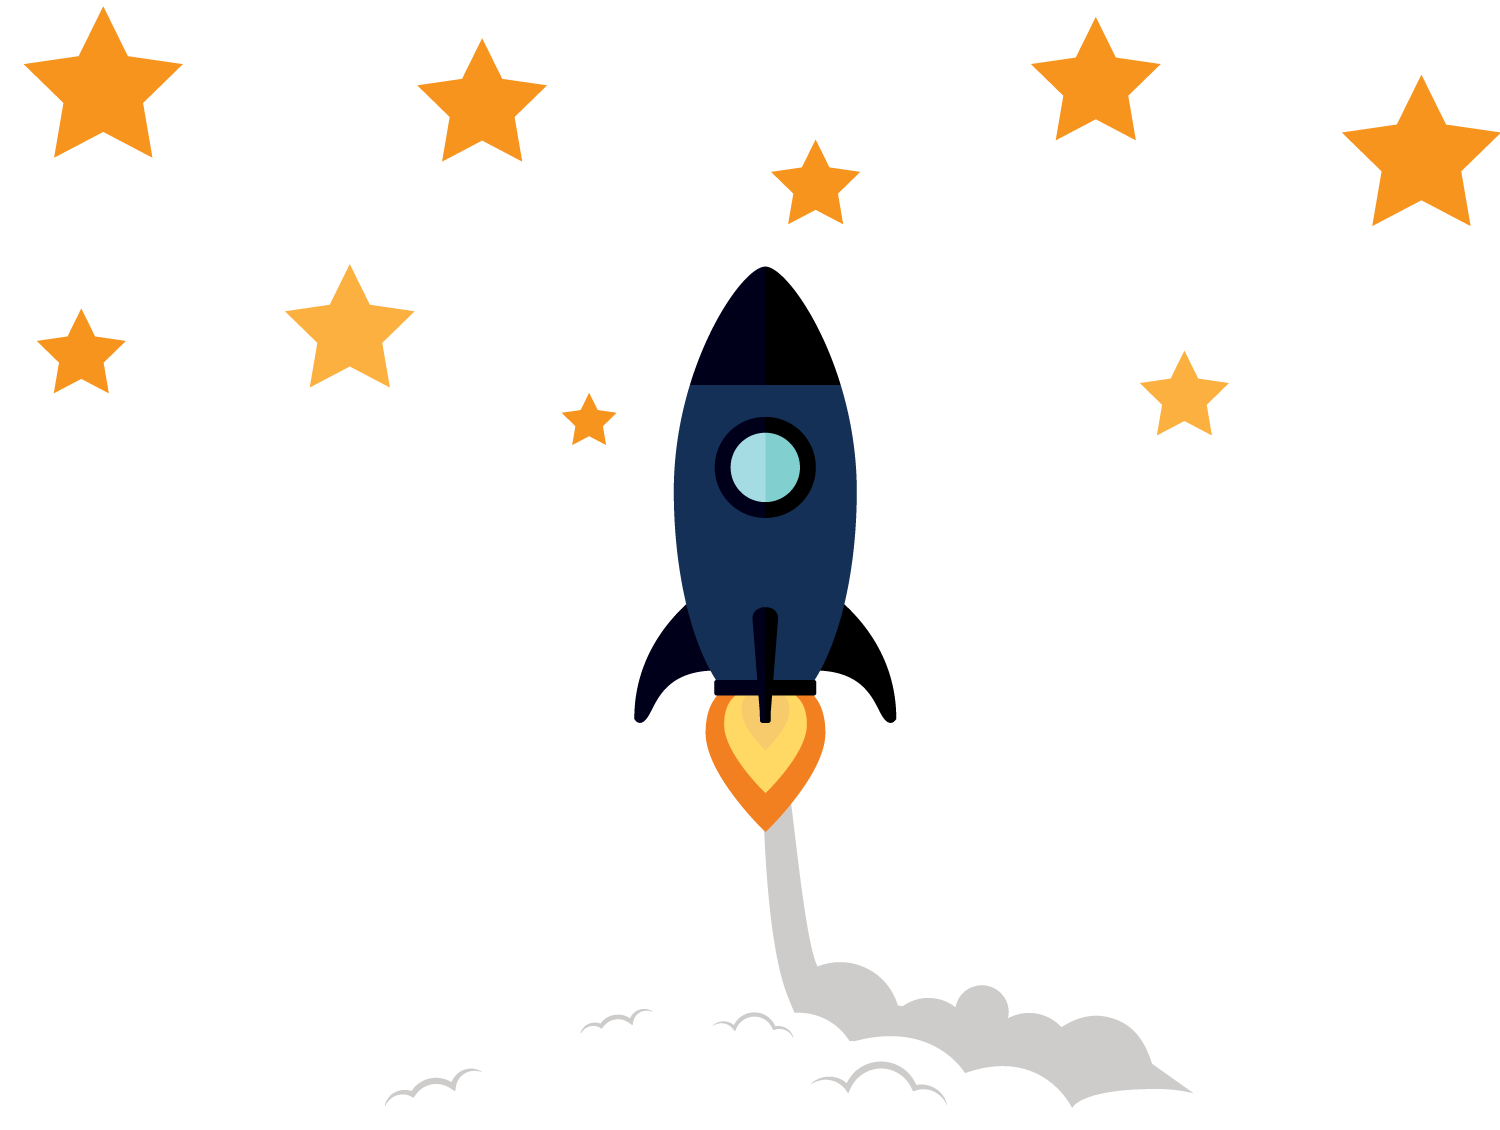
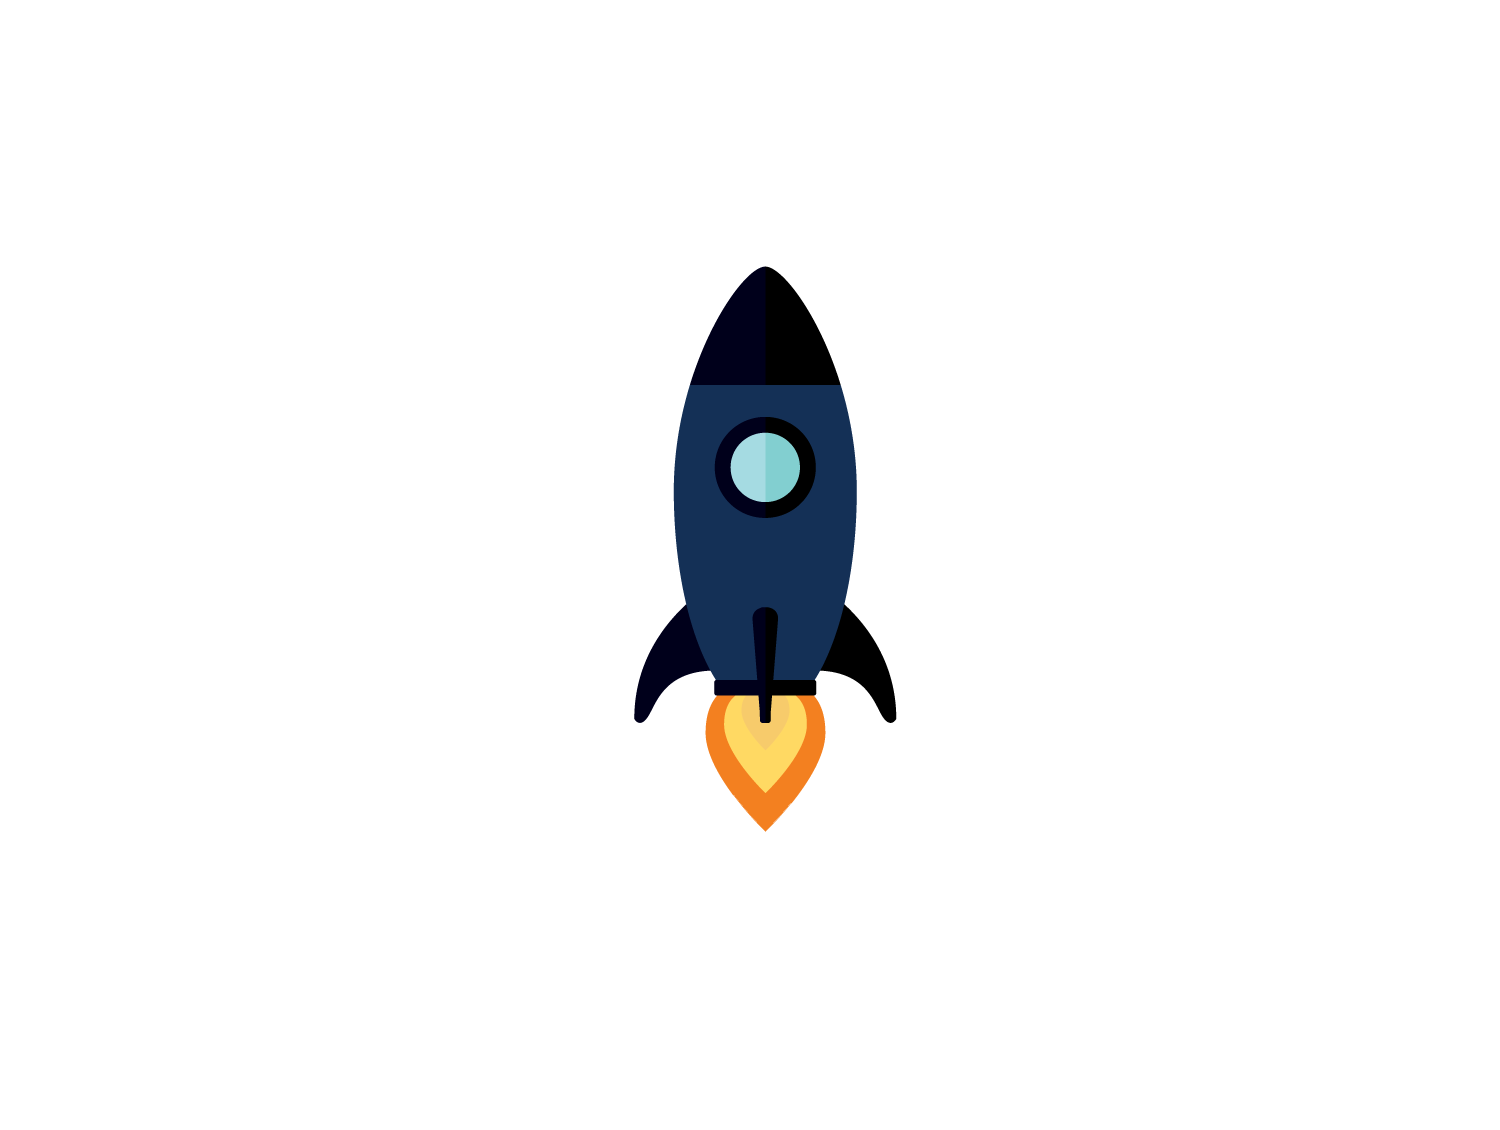
AOS library

diff --git a/src/components/HomeSections/FactsSec/index.js b/src/components/HomeSections/FactsSec/index.js
@@ -1,5 +1,7 @@
 import React from 'react';
 import rocketImg from '../../../assets/rocket.png';
+import rocketSmokeImg from '../../../assets/rocket-smoke.png';
+import rocketStarsImg from '../../../assets/rocket-stars.png';
 import facts_edge_img from '../../../assets/facts-edge-top.png';
 import './FactsSec.css';
 
@@ -19,6 +21,11 @@ const FactsSec = () => (
                         <h6><i className="fas fa-user-ninja"> </i> I like to try new things</h6>
                     </div>
                     <div className="col s12 m6 ">
+                        <img src={rocketStarsImg} className="facts-img-background" alt="Stars"/>
+
+                        <img src={rocketSmokeImg} data-aos="zoom-in-up"
+                             data-aos-duration="3000" className="facts-img-bottom" alt="Smoke"/>
+
                         <img src={rocketImg} className="facts-img" data-aos="fade-up"
                              data-aos-duration="3000" alt="Rocket"/>
                     </div>

diff --git a/src/components/HomeSections/FactsSec/FactsSec.css b/src/components/HomeSections/FactsSec/FactsSec.css
@@ -1,12 +1,16 @@
-.facts-img {
+.facts-img, .facts-img-background, .facts-img-bottom {
     padding: 0;
     object-fit: scale-down;
     max-height: 300px;
     position: absolute;
     bottom: -1px;
-    z-index: -1;
-    /*left: 50vw;*/
-    display: block;
+    z-index: 3;
+}
+
+.facts-img-background {
+    /*position: relative;*/
+    /*height: 100%;*/
+    /*overflow: hidden;*/
 }
 
 .facts-top-edge-img {
